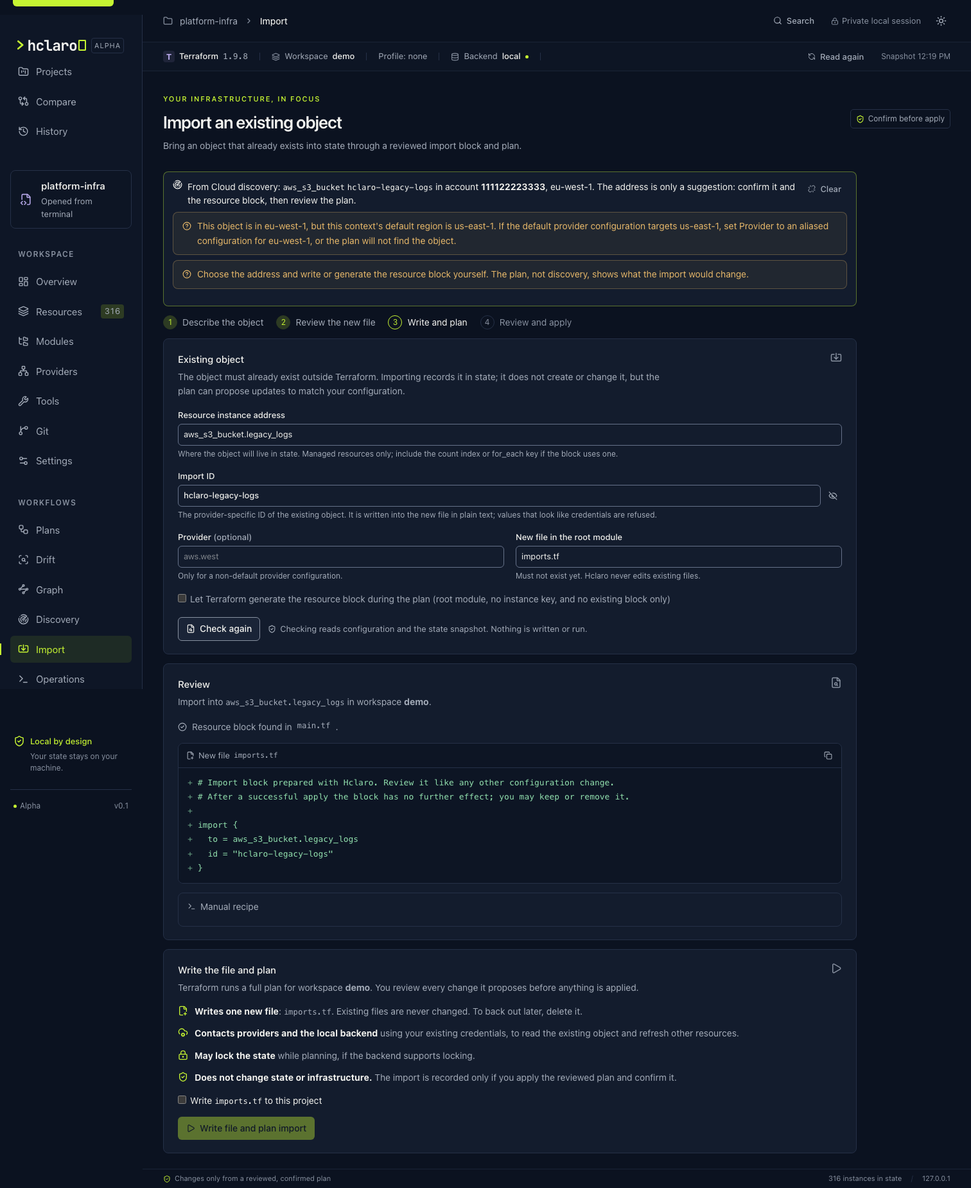
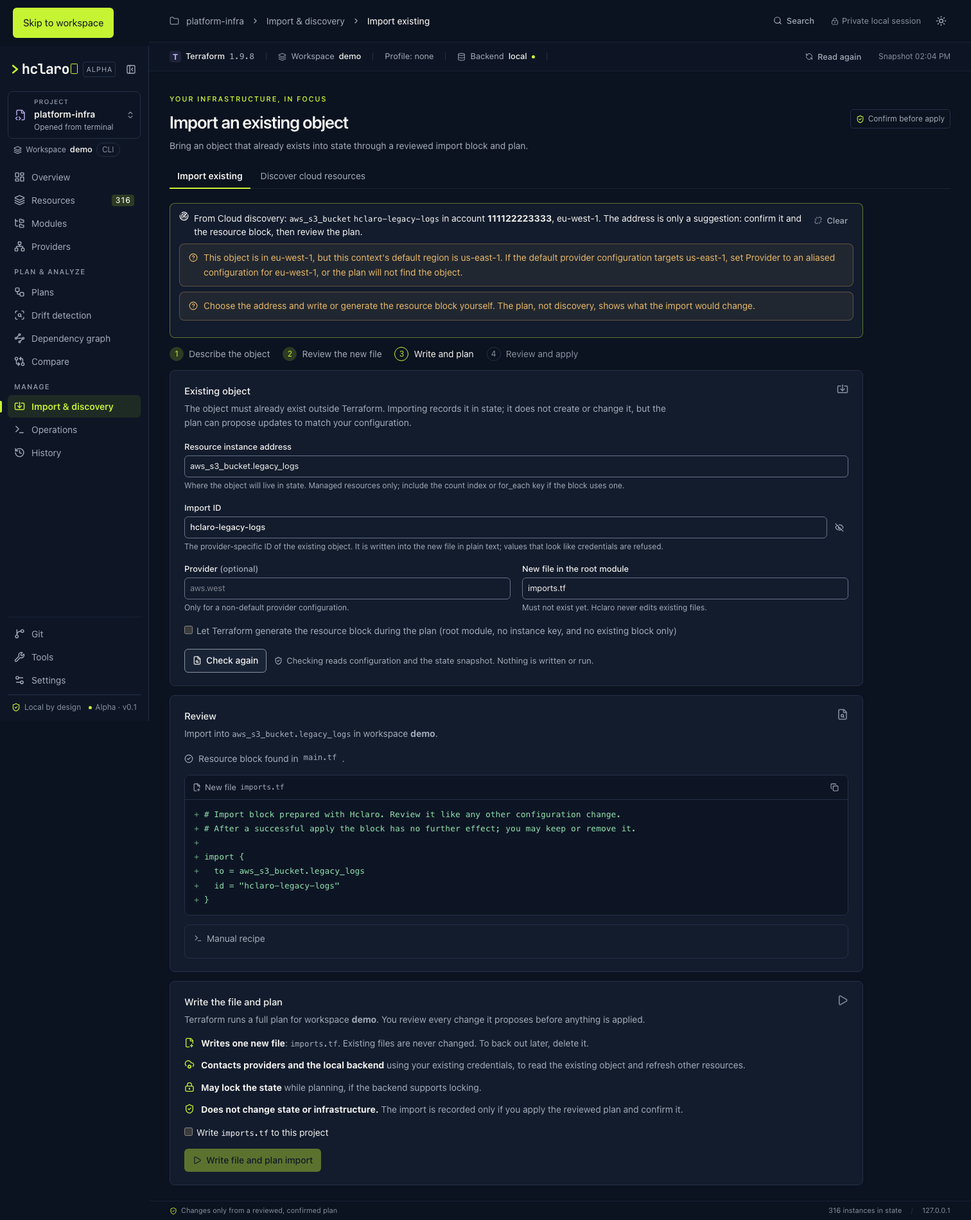
Document the M21 navigation and refresh screenshots

diff --git a/README.md b/README.md
@@ -66,7 +66,7 @@ The private URL contains a random launch credential in its **fragment**, which i
 ./bin/hclaro --hub --path ./prod   # open the Hub with ./prod as the launch project
 ```
 
-**Projects** (in the sidebar on every screen) lists registered project roots. A project is one root folder plus an engine choice and a name; a CLI workspace is a state namespace inside it. The two are never treated as the same thing, and neither is a cloud account or profile.
+The **project switcher** at the top of the sidebar shows the current project and how it was opened, and offers the project opened from the terminal, recent Hub projects and **All projects**, which lists registered project roots. A project is one root folder plus an engine choice and a name; a CLI workspace is a state namespace inside it. The two are never treated as the same thing, and neither is a cloud account or profile.
 
 - **Add project** takes an absolute path or a folder picked with **Browse…**, which lists one folder's subfolders at a time (hidden folders skipped, never recursive). The path is resolved through symlinks and must contain `.tf`, `.tofu` or state files; the same folder cannot be added twice, including through a symlink. Names may repeat.
 - Rename, pin, reorder (arrow buttons) and **Remove** a project. Removing forgets the entry only; no file, data directory, state or backend is touched. A moved or deleted folder stays listed with its problem and a **Repair path** action.
@@ -92,7 +92,7 @@ Init writes the data directory and lock file in the project and can contact prov
 
 ### Manage CLI workspaces
 
-Choosing a workspace in Hclaro (a row on the project page, the **Workspace** switcher or **New tab**) changes only that browser tab and never the CLI default. Three separate actions do change workspaces; each first lists workspaces with the CLI, shows the exact command and its effects, and runs only after you confirm:
+Choosing a workspace in Hclaro (a row on the project page, the **Workspace** selector under the project switcher or **New tab**) changes only that browser tab and never the CLI default. Three separate actions do change workspaces; each first lists workspaces with the CLI, shows the exact command and its effects, and runs only after you confirm:
 
 | Action | Command | Effect | Confirmation |
 | --- | --- | --- | --- |
@@ -109,7 +109,7 @@ Choosing a workspace in Hclaro (a row on the project page, the **Workspace** swi
 
 ### Project tools
 
-Each Hub workspace tab has a **Tools** view (also reachable with **Project tools** on the project page, including for projects that are not initialized yet). For the project opened from the terminal, **Tools** in the sidebar opens the same view for that folder's Hub entry, in the workspace the launch view reads; if the folder is not saved in the Hub yet, it takes you to **Save to Hub** first. Four read-only commands run only when you click them, in that tab's project, engine and workspace:
+Each Hub workspace tab has a **Tools** view (also reachable with **Project tools** on the project page, including for projects that are not initialized yet). For the project opened from the terminal, **Tools** in the sidebar first explains that the tools run in that folder's Hub entry, in the workspace the launch view reads. **Open tools for workspace …** switches the tab to that read-only Hub context, and **Open in new tab** keeps the current view. If the folder is not saved in the Hub yet, the page offers **Go to Save to Hub** instead. Four read-only commands run only when you click them, in that tab's project, engine and workspace:
 
 | Tool | Command | Reads | Shows |
 | --- | --- | --- | --- |
@@ -173,6 +173,15 @@ Profiles are saved in `profiles.json` next to `projects.json` (schema `version: 
 
 History is saved in `history.json` next to `projects.json` (schema `version: 1`, atomic `0600` writes in a `0700` folder). A file that cannot be decoded is moved aside to `history.json.corrupt-<time>` and history starts empty; a file written by a newer Hclaro is left unchanged and nothing new is recorded. Two Hclaro processes sharing the folder merge their entries.
 
+## Navigation
+
+The sidebar follows the usual order of work: the **project switcher** and the Terraform/OpenTofu **workspace** on top, then the project's **Overview**, **Resources**, **Modules** and **Providers**; **Plan & analyze** (Plans, Drift detection, Dependency graph, Compare); **Manage** (Import & discovery, Operations, History); and **Git**, **Tools** and **Settings** at the bottom. Project, workspace and Git branch are shown separately and never stand in for each other; the workspace of the project opened from the terminal is shown but not switchable, because Hclaro never selects a CLI workspace for you.
+
+- **Import & discovery** opens two separate workflows, **Import existing** and **Discover cloud resources**, one click apart, and reopens the one you used last in the tab.
+- Items that do not apply are disabled with the reason as their tooltip, for example the workflows of a read-only Hub workspace.
+- Switching project never runs a command. If the switch would discard a replacement selection or an import prepared from discovery in this tab, Hclaro asks first.
+- **Collapse sidebar** keeps an icon-only rail with labels on hover and keyboard focus (Escape hides them); the choice is saved with the display preferences. Below 900 px the sidebar is a drawer opened from the menu button and closed with Escape, the close button or a click outside.
+
 ## Explorer
 
 - Resource table with 50-row pages, address sorting, and composable provider/type/mode/module filters.
@@ -183,7 +192,7 @@ History is saved in `history.json` next to `projects.json` (schema `version: 1`,
 
 ## Git changes
 
-**Git** in the sidebar (and the Git badge in the context bar, for example `main @ 1a2b3c4`) relates the project to its local Git repository. It works for the project opened from the terminal and for Hub workspaces. Hclaro only reads Git: it never runs `checkout`, `reset`, `pull`, `commit`, `push` or any other command that changes a repository.
+**Git** at the bottom of the sidebar (and the Git badge in the context bar, for example `main @ 1a2b3c4`) relates the project to its local Git repository. It works for the project opened from the terminal and for Hub workspaces. Hclaro only reads Git: it never runs `checkout`, `reset`, `pull`, `commit`, `push` or any other command that changes a repository.
 
 - **Badge.** Branch and HEAD commit, read from the repository's `.git` files without running Git. A detached HEAD is marked; once the Git view has run, a dot shows whether the project's IaC files are clean.
 - **Git view.** Opening it runs one `git status` (read-only, see [architecture](docs/architecture.md#git-context)). It shows the repository folder name, the project's path inside the repository (never the absolute path), branch, HEAD, linked-worktree status and the changed `.tf`, `.tf.json`, `.tofu`, `.tfvars` and `.terraform.lock.hcl` files in the project root and in its **local modules** (module sources such as `../modules/vpc`, read from the module manifest `init` writes). Changes elsewhere in the repository and non-IaC files are only counted. Warnings cover a detached HEAD, a branch without commits, untracked IaC files and IaC changes elsewhere in a monorepo.
@@ -212,7 +221,7 @@ Planning is available only for local execution (remote/cloud backends are refuse
 
 ## Drift detection
 
-Open **Drift** and choose **Check drift** to find objects that changed outside Terraform/OpenTofu. Nothing is scanned when the page opens. A dialog first explains that the scan queries provider APIs and the backend with your existing credentials (an expired SSO session or a missing VPN makes it fail), may lock the state, and writes no state. It shows the execution context and lets you choose variable files, as for a plan.
+Open **Drift detection** and choose **Check drift** to find objects that changed outside Terraform/OpenTofu. Nothing is scanned when the page opens. A dialog first explains that the scan queries provider APIs and the backend with your existing credentials (an expired SSO session or a missing VPN makes it fail), may lock the state, and writes no state. It shows the execution context and lets you choose variable files, as for a plan.
 
 Hclaro then runs `plan -input=false -json -out=<private temp file> -refresh-only` for the workspace the project reads, streams a sanitized log (cancellable), reads the file back with `show -json` and deletes it. The refresh-only plan is never kept, listed as a plan or applied, and Hclaro never runs `refresh`, `apply -refresh-only` or a state command. A scan is a refresh-only plan, **not** a normal plan: it compares what state records with what providers report now, not whether infrastructure matches your configuration. **Run a normal plan…** opens the plan dialog separately; a scan never starts one.
 
@@ -224,7 +233,7 @@ Drift scans are unavailable for remote or cloud execution backends (Hclaro canno
 
 ## Dependency graph
 
-Open **Graph** and choose **Generate graph** to see how resources, data sources and modules depend on each other. Nothing runs when the page opens. A dialog first shows the exact command (`terraform graph` or `tofu graph`, with no flags), explains that it reads configuration and provider schemas and may read state from the backend, and that it does not plan, refresh, apply or write state. It shows the execution context, as for a plan.
+Open **Dependency graph** and choose **Generate graph** to see how resources, data sources and modules depend on each other. Nothing runs when the page opens. A dialog first shows the exact command (`terraform graph` or `tofu graph`, with no flags), explains that it reads configuration and provider schemas and may read state from the backend, and that it does not plan, refresh, apply or write state. It shows the execution context, as for a plan.
 
 Terraform 1.7 and later print a resource-only graph; earlier Terraform and OpenTofu print the engine's full walk graph, with variables, locals, outputs, module calls and providers. Hclaro reads both. In the full graph, engine bookkeeping nodes (the root, `close`, `destroy` and count-boundary nodes) are left out, and internal nodes are hidden by default: two resources linked only through internal nodes are joined by a **derived** (dashed) link instead of a **declared** (solid) one. **Internal nodes** shows them. An arrow points from a resource to what it depends on.
 
@@ -263,7 +272,7 @@ The saved plan is deleted after one apply attempt, whatever the result, and also
 
 ## Cloud discovery (AWS)
 
-**Discovery** in the sidebar lists existing AWS objects in the account your local credentials belong to and labels each one against **this workspace's recorded state**, so you can bring an untracked object under management through the normal [Import](#import) flow. It is available for the project opened from the terminal. Hclaro only reads: it never creates, changes or deletes cloud objects and never writes state. Nothing contacts AWS when you open the page.
+**Import & discovery → Discover cloud resources** lists existing AWS objects in the account your local credentials belong to and labels each one against **this workspace's recorded state**, so you can bring an untracked object under management through the normal [Import](#import) flow. It is available for the project opened from the terminal. Hclaro only reads: it never creates, changes or deletes cloud objects and never writes state. Nothing contacts AWS when you open the page.
 
 1. **Verify AWS context.** Runs `aws --version` (AWS CLI v2 is required) and STS `GetCallerIdentity` with the tab's execution profile (its AWS profile and region) or the inherited environment. The banner shows the account ID, the principal (role name; an assumed-role session name is never shown), the default region and where it came from. Hclaro never infers an account from a profile name. A verification is valid for 30 minutes and only for the same profile, workspace and engine.
 2. **Scan…** opens a preview: resource types (each with the IAM permission it needs), up to 6 regions, objects per type and region (default 200, max 1000) and concurrent reads (default 2, max 4). It states how many AWS API requests the scan will make (for example *6–11*) and that some APIs can incur charges or count against rate limits; you must confirm before it starts. Each scan checks the account again and fails with *identity changed* if the credentials now belong to another account. Scans can be cancelled; throttled reads are retried with backoff; an expired SSO session stops the scan.
@@ -292,7 +301,7 @@ The **Cost estimate** tab of a reviewed plan shows a clearly labelled estimate o
 
 ## Import
 
-**Import** brings an object that already exists outside Terraform/OpenTofu into state. Enter the resource instance address (managed resources only, with its count index or for_each key if the block uses one), the provider's import ID, an optional provider reference such as `aws.west`, and the name of a **new** file in the root module. **Check and preview** writes nothing and runs nothing. It reports:
+**Import & discovery → Import existing** brings an object that already exists outside Terraform/OpenTofu into state. Enter the resource instance address (managed resources only, with its count index or for_each key if the block uses one), the provider's import ID, an optional provider reference such as `aws.west`, and the name of a **new** file in the root module. **Check and preview** writes nothing and runs nothing. It reports:
 
 - the address is already in state, or an object of the same type with that `id` is already managed elsewhere (both block the import);
 - a missing resource block (blocks the import unless the engine generates one), or a block that could not be verified;

diff --git a/docs/M21-verification.md b/docs/M21-verification.md
@@ -1,0 +1,95 @@
+# M21 implementation and verification
+
+**Status: draft.** The sidebar is regrouped around the user journey (understand a project → plan and analyze → manage), with a project switcher, a separate Terraform/OpenTofu workspace selector, an Import & discovery parent entry, an icon-only desktop mode and a narrow-screen drawer. It is a navigation refactor only: no Go code, API route, client route, CLI argument, confirmation or redaction changed.
+
+M21 builds on M01–M17 and M19. M18 (state refactoring studio) and M20 (AWS session manager) are not on `master`; nothing here depends on them.
+
+## Audit (FR-01)
+
+### Routes before and after
+
+Client routes are unchanged (`web/src/router.ts`); the Go server still serves the app shell only for these paths (`internal/api/api.go`, `clientRoute`).
+
+| URL | Route kind | Scope | Workbench |
+| --- | --- | --- | --- |
+| `/` | `launch` | Project opened from the terminal; its views are in memory, not in the URL | `launch` |
+| `/projects` | `hub` | Global: the Hub project list | `launch` |
+| `/projects/<id>` | `project` | One Hub project: workspaces, init, workspace lifecycle, profiles | `launch` |
+| `/projects/<id>/workspaces/<ws>/<view>` | `context` | One Hub project workspace, read-only; `<view>` ∈ resources, overview, modules, providers, tools, git; `?resource=` and `?profile=` deep-link parameters | `<id>/<ws>` |
+| `/compare` | `compare` | Global | `launch` |
+| `/history` | `history` | Global | `launch` |
+
+### Sidebar destinations: old → new
+
+| Before (label · group) | Implementation | After (label · group) | Change |
+| --- | --- | --- | --- |
+| Projects · top | `navigate('/projects')`, `HubView` | **Project switcher → All projects** | Moved into the switcher, with the terminal project, up to 5 recent Hub projects and the current project's workspace page |
+| project tile (static) | text only | **Project switcher** (button) | Now a control; shows status (ready, loading, missing, none) |
+| Workspace `<select>` · context bar (Hub workspaces) | `navigate(contextPath(...))` | **Workspace** selector under the switcher | Moved; context bar keeps a read-only workspace label and the production-like badge. In compact mode it is inside the switcher panel |
+| Overview, Resources (count), Modules, Providers · WORKSPACE | explorer views in `App.tsx` | same · project group (no heading) | Unchanged behaviour; count badge kept |
+| Plans · WORKFLOWS | `PlansView` (launch only) | Plans · **Plan & analyze** | — |
+| Drift · WORKFLOWS | `DriftView` | **Drift detection** · Plan & analyze | Renamed |
+| Graph · WORKFLOWS | `GraphView` | **Dependency graph** · Plan & analyze | Renamed |
+| Compare · top | `/compare`, `CompareView` | Compare · Plan & analyze | Same URL; accessible name is now the visible label |
+| Import, Discovery · WORKFLOWS | `ImportView`, `DiscoveryView` | **Import & discovery** · Manage, with **Import existing** / **Discover cloud resources** sub-navigation | One entry, two unchanged workflows; *Prepare import* still hands the prefill from Discovery to Import |
+| Operations (running indicator) · WORKFLOWS | `OperationsView` | Operations · Manage | Running indicator kept |
+| History · top | `/history`, `HistoryView` | History · Manage | Same URL |
+| Git · WORKSPACE | `GitView` (launch and Hub workspaces) | Git · bottom | Kept as a page: it is a full repository/changes/diff view. The context-bar Git badge still opens it |
+| Tools · WORKSPACE | `ToolsView` (Hub workspaces; launch → jumped straight to its Hub entry or *Save to Hub*) | Tools · bottom | Kept as a page: four read-only commands with results and per-context history. For the terminal-opened project it now opens an explanation page (`hub/LaunchTools.tsx`) with **Open tools for workspace …**, **Open in new tab** or **Go to Save to Hub**, instead of switching the tab's project without warning. Also on the project page as **Project tools** |
+| Settings · WORKSPACE | `SettingsPanel` (app display preferences) | Settings · bottom | Moved; labelled *Settings*, not *Project settings*, because it holds application preferences only |
+| Local by design / Alpha / v0.1 | footer | one-line footer | Compact |
+
+### Ambiguous scope and how it is handled
+
+- **Global pages and the project nav.** On `/projects`, `/compare` and `/history` the sidebar shows the project opened from the terminal (as before, its items open it at `/`). No project item is marked current on a global page.
+- **Hub project page (`/projects/<id>`).** Previously project items silently opened the *terminal* project. They now open the Hub project's last-used (or CLI-default) workspace; without one they are disabled with *Choose a workspace of this project first.* Launch-only items stay disabled there.
+- **Launch-only workflows.** Plans, Drift detection, Dependency graph, Import & discovery and Operations stay disabled in Hub workspaces with the existing read-only explanation.
+- **Settings in a Hub workspace** is not in the URL (as before). Back/forward now leaves it, because Hub explorer view changes push history entries instead of replacing them.
+
+## Implementation
+
+| File | Change |
+| --- | --- |
+| `web/src/navigation/config.ts` (new) | Typed items: id, label, icon, group, scope, target (view with child views, or global route), badge, description. `navState`/`isActive` derive availability and active state from the parsed route and view; `viewTrail` names breadcrumbs. |
+| `web/src/navigation/Sidebar.tsx` (new) | Brand row with collapse/close buttons, project switcher (disclosure panel: Escape and outside click close, focus returns), workspace control slot, grouped `<nav aria-label="Main">`, scrolling middle, fixed footer, compact-mode tooltips (`position: fixed`, on hover *and* focus, Escape dismisses), Import & discovery sub-navigation. |
+| `web/src/navigation/ConfirmSwitch.tsx` (new) | Modal (shared `useModal`) listing what a switch would discard; *Stay here* is focused. |
+| `web/src/router.ts` | `workbenchKey(route)` (was inline in `App`). |
+| `web/src/App.tsx` | Uses the config and `Sidebar`; `sidebar` display preference; narrow drawer state; guarded `requestSwitch`; Hub project page targets; breadcrumbs from `viewTrail`; Hub view changes push history; registry read on every route for the switcher (a local file read, no engine command). |
+| `web/src/styles.css` | `--sidebar-width` drives the column and content offset; denser items; compact rail; drawer (`visibility: hidden` when closed, so it leaves the tab order); switcher, tooltip, sub-navigation and confirm styles. The old ≤ 900 px icon rail is replaced by the drawer. |
+| `scripts/browser-smoke.mjs` | Opens Import/Discovery through the new entry; new navigation checks and screenshots. |
+| Tests | `web/src/navigation/Navigation.test.tsx` (new); three assertions in `App.test.tsx`/`Hub.test.tsx` updated for renamed items. |
+| Docs | README *Navigation* section and renamed entries, `docs/architecture.md`, `CHANGELOG.md`, this file. |
+
+## Evidence collected
+
+Environment: macOS 13 amd64, Go 1.27.3, Node 24.2, Playwright Chromium. No network, credential or real engine was used: the browser suite runs the real Go handler on synthetic fixtures with every non-loopback request aborted; manual screenshots came from `make demo-hub` (synthetic projects and fake engines).
+
+| Check | Result |
+| --- | --- |
+| `make lint` (`go vet`, `tsc -b`, ESLint `--max-warnings 0`) | Passed |
+| `make test` (`go test -race`, Vitest) | Passed; Vitest 160/160 in 18 files (146 before M21) |
+| New UI tests (`Navigation.test.tsx`, 14) | Every implemented view reachable exactly once; Hub read-only, no-project and Hub-project availability with reasons; active state for nested Import/Discovery, global routes and Hub URLs; breadcrumbs and workbench keys; grouped render with exactly one `aria-current`; terminal workspace shown but not switchable; project switcher (recent list, Escape returns focus, switch opens only `POST /contexts`); Hub workspace switching from the sidebar, separate from the project; confirmation before discarding a replacement selection (*Stay here* keeps it, global pages do not ask, *Switch anyway* proceeds); Import & discovery tabs, breadcrumb and last-used tab with **no mutating request**; Git/Tools/Settings in the footer with URL updates and back navigation leaving Settings; Hub project page items open the last workspace; compact mode persistence, names, `aria-current`, focus tooltip, Escape dismissal, keyboard activation, compact switcher with the workspace selector; narrow drawer focus, Escape, close on navigation. |
+| `make build`, `make browser-test` | Passed, including the new checks: all 14 items and both group headings present; switcher Escape/focus; compact width 64 px, focus tooltip and Escape, Enter activation; preference survives reload; at 1512 × 430 the groups scroll and Settings stays in view; at 760 px the closed drawer is hidden with no horizontal overflow, opens from the menu button, closes with Escape (focus returns) and after choosing a page; all existing plan/apply/import/Git/discovery/cost checks; no external requests. |
+| Screenshots | `docs/screenshots/navigation-expanded-dark.png`, `navigation-switcher-dark.png`, `navigation-compact-dark.png`, `navigation-drawer-dark.png` (browser suite). Light and dark Hub, project page and Hub workspace switcher were inspected manually from `make demo-hub`. |
+| Behaviour unchanged | No Go file changed. Terraform/OpenTofu commands, confirmations (plan preflight, typed apply confirmation, import consent, discovery scan consent, workspace lifecycle), redaction and security headers are untouched. Navigation code calls only `navigate`, and the switcher's only server effect is the existing context open when a workspace page is shown. |
+
+## Intentional deviations
+
+- **Labels are sentence case** (*Drift detection*, *Dependency graph*, *Import & discovery*), matching the rest of the UI rather than the task's title case. Group headings are styled uppercase with CSS, so screen readers do not spell them.
+- **Settings stays *Settings*.** It contains theme, density, grouping and editor preferences for the whole app; calling it *Project settings* would misdescribe it.
+- **No *Open project* item in the switcher.** Adding a project is a dialog on the Hub page; **All projects** reaches it in one click. Adding a second entry point would duplicate the dialog's validation flow.
+- **Launch-project views are still not in the URL.** Making them deep-linkable needs new server shell routes, which this milestone does not change. Back/forward work for Hub workspace views, Compare, History and the Hub.
+
+## Known limitations
+
+- The switch confirmation covers work the workbench holds (replacement selection, a replacement plan not started, a discovery-prepared import). Text typed into the Import wizard or a dialog is local to that component and is not detected; browser back/forward does not ask.
+- In compact mode, tooltips for disabled items depend on the browser delivering pointer events to disabled buttons; the reason is always available as the item's `title` in expanded mode.
+- Recent projects come from the registry's `lastOpenedAt`; projects never opened in Hclaro are listed only under **All projects**.
+
+## Manual verification
+
+1. `make demo-hub` and open the printed URL. The sidebar shows the switcher (*No project open*), project items disabled with a reason, and Compare, History and Settings enabled.
+2. Open **network**: the switcher shows *network · Choose a workspace* or opens the last workspace from **Overview**. Open a workspace: the **Workspace** selector appears under the switcher; switch to `prod` and see the production-like badge in the context bar.
+3. Use **Collapse sidebar**, Tab through the rail (labels appear on focus, Escape hides them), reload (still compact), then **Expand sidebar**.
+4. Narrow the window below 900 px: the menu button opens the drawer; Escape, the close button, the backdrop or choosing a page closes it.
+5. `make demo`: select a resource for replacement, open the switcher and choose another project; confirm that *Leave this project?* appears. Open **Import & discovery** and switch between **Import existing** and **Discover cloud resources**; nothing is scanned or written.

diff --git a/docs/architecture.md b/docs/architecture.md
@@ -493,8 +493,15 @@ SSE streams are read with `fetch` (not `EventSource`) so the bearer token stays 
 
 The UI requests workspace status while loading, then uses the immutable snapshot. TanStack Query caches reads without focus/reconnect refresh. Search is debounced 180 ms, filters compose on the server, and resource pages render at most 50 rows. This bounds DOM work independently of total instances. Only selected details are downloaded. Resource selection stays mounted during detail changes, preserving list scroll. Module/attribute structures use native disclosures, resource buttons support arrow navigation, and reduced-motion preferences are respected.
 
-No runtime fonts, CDNs, analytics or hosted APIs are used. Display preferences are validated before use and are the only localStorage data. The sidebar, dashboard, modules and providers all derive from real snapshot counts.
+No runtime fonts, CDNs, analytics or hosted APIs are used. Display preferences (including the sidebar's expanded or compact mode) and the details-drawer width are validated before use and are the only localStorage data. The sidebar, dashboard, modules and providers all derive from real snapshot counts.
 
 The Resources view adds a checkbox to managed rows only; the selection (kept across pages and filters, at most 50) opens the replace preflight, which lists the exact addresses. The Plans view shows plan availability, a preflight dialog (providers and backend contacted, possible state lock, no infrastructure change), the live operation log with cancel, failures with sanitized diagnostics, and the review: metadata, for replacements the requested instances next to a count of every other change, apply status (ready with expiry, or the reason it is review only), action counts that double as filters, the complete change list (no-ops behind a toggle, 200 rows per page), a change inspector with attribute diff, outputs, and drift. The apply dialog requests the approval when it opens, shows counts, command and digest, and keeps **Apply plan** disabled until the typed phrase matches; Cancel has initial focus. After an apply the explorer queries are invalidated and the outcome is shown separately from the exit status. Actions are distinguished by icon and text, not color alone. The Operations view lists session plans and applies and replays retained logs. The Import view is a single page with numbered steps: the request form, the server preview (issues, configuration status, the new file as an added-lines diff, a manual recipe), and, only when nothing blocks, a consent checkbox before **Write file and plan import**. Any edit discards the preview. Import plans get a summary of the target, other changes and the redacted generated configuration; failures show recovery steps.
 
 The build is TypeScript + Vite + Tailwind, with React, TanStack Query, Lucide and a shadcn-style Button. Vite writes content-hashed files to `internal/ui/dist/assets/` plus `THIRD-PARTY-NOTICES.txt` for runtime dependencies; the Go binary embeds that directory. `scripts/build-offline-preview.mjs` remains only as a no-network fallback and must not be committed as release assets.
+
+## Navigation (M21)
+
+`web/src/navigation/config.ts` declares every sidebar destination once: label, icon, group, scope (`project`, `launch`, `global`, `app`), target (a workbench view or a global route) and badge. `navState` derives availability and the active item from the parsed route and current view, never from URL substrings; the Import & discovery entry stays active for both of its child views. `Sidebar.tsx` renders the groups, the project switcher, the workspace control, compact mode and fixed-position tooltips (so the scrolling group list cannot clip them).
+
+Routing is unchanged. Hub workspace views remain in the URL (`/projects/<id>/workspaces/<ws>/<view>`) and now push history entries, so back and forward move between views; the launch project's views stay in memory as before, because the server serves the app shell only for Hub routes. `workbenchKey(route)` identifies the workbench a route uses: a switch that would replace the current workbench while it holds a replacement selection or a discovery-prepared import asks for confirmation. No navigation action calls a mutating API.
+

diff --git a/CHANGELOG.md b/CHANGELOG.md
@@ -2,6 +2,15 @@
 
 ## Unreleased
 
+### Navigation and information architecture (M21, draft)
+
+- The sidebar is grouped by task: project views (Overview, Resources, Modules, Providers), **Plan & analyze** (Plans, Drift detection, Dependency graph, Compare), **Manage** (Import & discovery, Operations, History) and Git, Tools and Settings at the bottom, with a compact *Local by design · Alpha* footer. Groups scroll on their own, so project context and Settings stay reachable in short windows.
+- A **project switcher** replaces the Projects item: current project and how it was opened, the terminal-opened project, recent Hub projects, the project's workspace page and **All projects**. The Terraform/OpenTofu **workspace** selector moved under it, separate from the project; the context bar still shows the workspace and the production-like hint.
+- **Import & discovery** is one entry with two separate workflows (**Import existing**, **Discover cloud resources**); the wizards, APIs and confirmations are unchanged.
+- **Collapsible sidebar**: an icon-only mode with keyboard-accessible tooltips, saved with the display preferences. Below 900 px the sidebar is a dismissible drawer instead of an icon rail.
+- **Tools** for the project opened from the terminal now explains that the tools run in the folder's Hub entry and offers **Open tools for workspace …** or **Open in new tab**, instead of switching the tab without warning.
+- Switching project asks first when it would discard a replacement selection or a discovery-prepared import. In Hub workspaces, back and forward now move between views. Typed navigation configuration in `web/src/navigation/`. No API, route, CLI, Terraform/OpenTofu or security behaviour changed.
+
 ### Brand identity: hollow cursor (M19, draft)
 
 - New **hollow-cursor identity**: a terminal-style chevron, lowercase `hclaro` in JetBrains Mono Bold and an unfilled cursor, in light, dark and lime (inverse) variants, plus a compact `h` + cursor app mark. Reusable `HclaroLogo` and `HclaroMark` components with one accessible name and decorative parts hidden.
